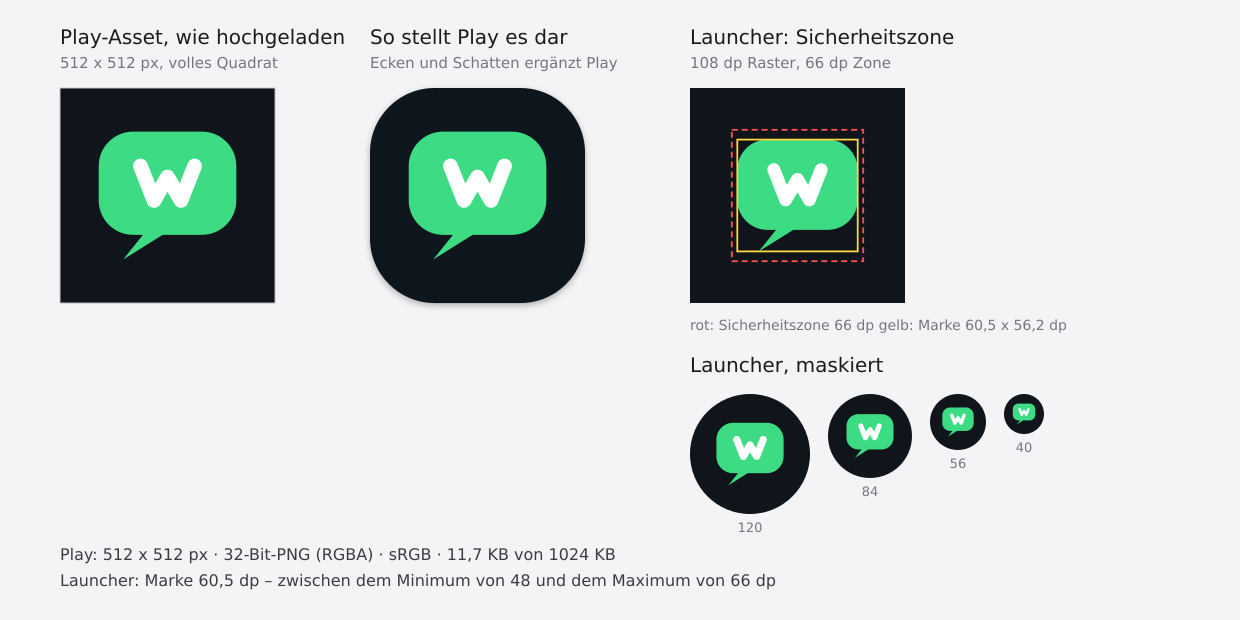
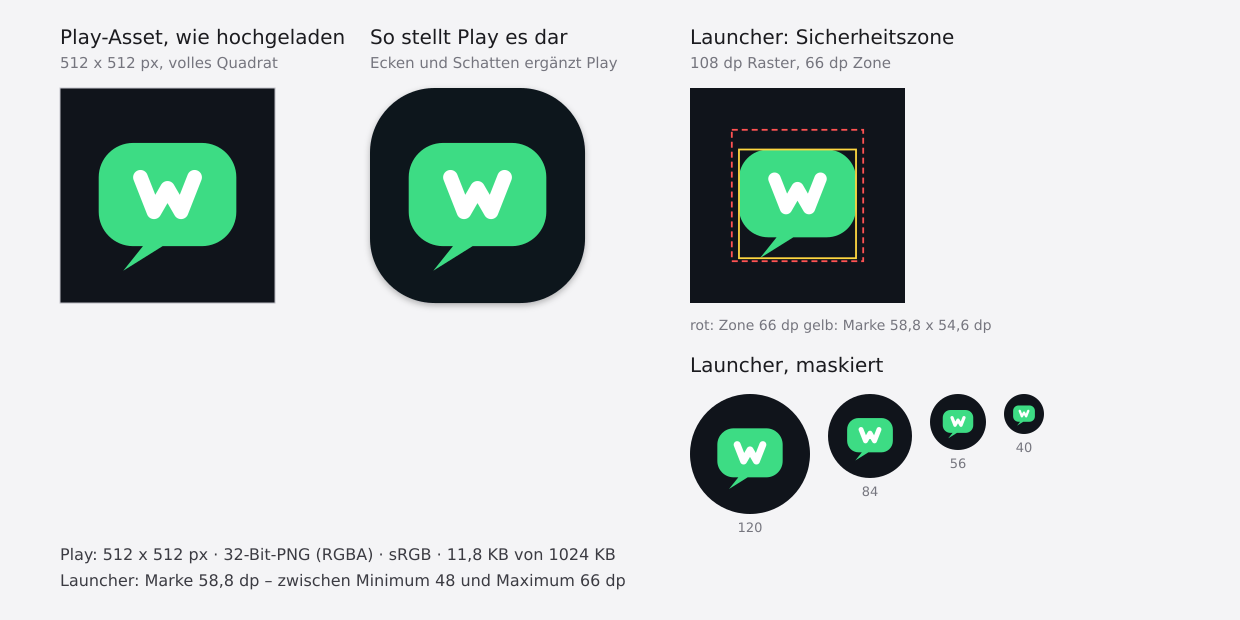
Befunde vom Gerätetest beheben, Symbol optisch zentrieren
Erster Lauf auf echter Hardware (Pixel 10, Android 17) gegen die lokale
WordPress-Umgebung. Dabei kam vieres heraus:

Datenschutzfehler: Die Detailansicht lud den Avatar eines Kommentators, ohne
die Einstellung "Avatare anzeigen" zu beachten - es entstand also eine Anfrage
an Gravatar, obwohl der Benutzer sie abgelehnt hatte. Die Listenansicht prüfte
korrekt, die Detailansicht nicht. Genau das schliesst docs/privacy.md aus.

Eine soeben veröffentlichte Antwort zeigte "Vor 0 Min.". Unterhalb einer
Minute steht jetzt "Gerade eben"; RelativeTime nimmt dafür Resources entgegen.

seed.sh hängte die Testkommentare an WordPress' Standardbeitrag "Hello world!",
weil die Beitragsliste ihn an erster Stelle mit ausgibt. Jetzt werden die IDs
gezielt über die Titel der angelegten Beiträge gesucht.

Die blaue Symbolvariante war geometrisch identisch zur grünen, erreichte auf
dem dunklen Grund aber nur 3,3:1 Kontrast - der Schweif der Sprechblase
verschwand bei kleinen Grössen fast. Sie ist jetzt umgekehrt eingefärbt,
weisse Blase auf WordPress-Blau, und kommt auf 5,6:1 in beide Richtungen. Die
Markenfarbe bleibt unverändert. Vier Varianten wurden gerendert und verglichen.

Ausserdem sass die Marke zu hoch. Der Begrenzungsrahmen lag zwar exakt mittig,
der Flächenschwerpunkt aber bei y=49,1 statt 54: Der Blasenkörper trägt nahezu
die gesamte Fläche, der Schweif wiegt kaum etwas. Alle Symbolebenen und beide
Play-Assets sind um vier Einheiten nach unten versetzt, Schwerpunkt jetzt 53,4.
[…]

diff --git a/android/app/src/main/java/de/christophlangner/commentator/ui/detail/CommentDetailScreen.kt b/android/app/src/main/java/de/christophlangner/commentator/ui/detail/CommentDetailScreen.kt
@@ -229,7 +229,11 @@ internal fun CommentDetailBody(
                         .verticalScroll(rememberScrollState())
                         .padding(horizontal = 16.dp),
                 ) {
-                    CommentHeader(comment = comment, showEmail = state.showAuthorEmail)
+                    CommentHeader(
+                        comment = comment,
+                        showEmail = state.showAuthorEmail,
+                        showAvatar = state.showAvatars,
+                    )
 
                     Text(
                         text = AnnotatedString.fromHtml(comment.contentHtml),
@@ -270,12 +274,15 @@ internal fun CommentDetailBody(
 }
 
 @Composable
-private fun CommentHeader(comment: Comment, showEmail: Boolean) {
+private fun CommentHeader(comment: Comment, showEmail: Boolean, showAvatar: Boolean) {
     Row(
         verticalAlignment = Alignment.CenterVertically,
         modifier = Modifier.padding(top = 16.dp),
     ) {
-        comment.avatarUrl?.let { url ->
+        // Ohne diese Bedingung entstünde eine Anfrage an Gravatar, obwohl die
+        // Einstellung dagegen steht - die Liste beachtet sie, die Detailansicht
+        // tat es bisher nicht.
+        comment.avatarUrl?.takeIf { showAvatar }?.let { url ->
             AsyncImage(
                 model = url,
                 contentDescription = null,
@@ -413,7 +420,7 @@ private fun ReplyItem(reply: Comment, modifier: Modifier = Modifier) {
                 modifier = Modifier.padding(top = 4.dp),
             )
             Text(
-                text = RelativeTime.relative(reply.date).toString(),
+                text = RelativeTime.relative(reply.date, LocalResources.current).toString(),
                 style = MaterialTheme.typography.bodySmall,
                 color = MaterialTheme.colorScheme.onSurfaceVariant,
             )

diff --git a/android/app/src/main/java/de/christophlangner/commentator/ui/detail/CommentDetailViewModel.kt b/android/app/src/main/java/de/christophlangner/commentator/ui/detail/CommentDetailViewModel.kt
@@ -37,6 +37,7 @@ data class CommentDetailUiState(
     val isSendingReply: Boolean = false,
     val isSavingEdit: Boolean = false,
     val showAuthorEmail: Boolean = false,
+    val showAvatars: Boolean = false,
     val isOffline: Boolean = false,
     val sessionInvalid: Boolean = false,
     val canModerate: Boolean = false,
@@ -90,14 +91,14 @@ class CommentDetailViewModel @Inject constructor(
         commentRepository.observeComment(instanceId, commentId),
         commentRepository.observeReplies(instanceId, commentId),
         busy,
-        settingsRepository.settings.map { it.showAuthorEmail },
+        settingsRepository.settings,
         combine(
             connectivity.isOnline,
             authRepository.observeSessionInvalid(),
             authRepository.observeActiveInstance().map { it?.canModerate == true },
             ::Triple,
         ),
-    ) { comment, replies, busy, showEmail, environment ->
+    ) { comment, replies, busy, settings, environment ->
         val (isOnline, sessionInvalid, canModerate) = environment
         CommentDetailUiState(
             comment = comment,
@@ -105,7 +106,8 @@ class CommentDetailViewModel @Inject constructor(
             isLoading = busy.isLoading && comment == null,
             isSendingReply = busy.isSendingReply,
             isSavingEdit = busy.isSavingEdit,
-            showAuthorEmail = showEmail,
+            showAuthorEmail = settings.showAuthorEmail,
+            showAvatars = settings.showAvatars,
             isOffline = !isOnline,
             sessionInvalid = sessionInvalid,
             canModerate = canModerate,

diff --git a/android/app/src/main/java/de/christophlangner/commentator/core/time/RelativeTime.kt b/android/app/src/main/java/de/christophlangner/commentator/core/time/RelativeTime.kt
@@ -1,6 +1,8 @@
 package de.christophlangner.commentator.core.time
 
+import android.content.res.Resources
 import android.text.format.DateUtils
+import de.christophlangner.commentator.R
 import java.time.Instant
 import java.time.ZoneId
 import java.time.format.DateTimeFormatter
@@ -15,14 +17,30 @@ object RelativeTime {
     private val absoluteFormatter: DateTimeFormatter =
         DateTimeFormatter.ofLocalizedDateTime(FormatStyle.MEDIUM, FormatStyle.SHORT)
 
-    /** Zum Beispiel „vor 5 Minuten“. */
-    fun relative(instant: Instant, now: Instant = Instant.now()): CharSequence =
-        DateUtils.getRelativeTimeSpanString(
+    /**
+     * Zum Beispiel „vor 5 Minuten“.
+     *
+     * Unterhalb einer Minute liefert die Plattform „vor 0 Min.“ - für eine
+     * gerade veröffentlichte Antwort eine unsinnige Angabe. Dieser Fall wird
+     * deshalb eigens behandelt.
+     */
+    fun relative(
+        instant: Instant,
+        resources: Resources,
+        now: Instant = Instant.now(),
+    ): CharSequence {
+        val age = now.toEpochMilli() - instant.toEpochMilli()
+        if (age in 0 until DateUtils.MINUTE_IN_MILLIS) {
+            return resources.getString(R.string.time_just_now)
+        }
+
+        return DateUtils.getRelativeTimeSpanString(
             instant.toEpochMilli(),
             now.toEpochMilli(),
             DateUtils.MINUTE_IN_MILLIS,
             DateUtils.FORMAT_ABBREV_RELATIVE,
         )
+    }
 
     /** Vollständiges Datum mit Uhrzeit in lokaler Zeitzone. */
     fun absolute(instant: Instant, zone: ZoneId = ZoneId.systemDefault()): String =

diff --git a/android/app/src/main/java/de/christophlangner/commentator/ui/inbox/CommentCard.kt b/android/app/src/main/java/de/christophlangner/commentator/ui/inbox/CommentCard.kt
@@ -26,6 +26,7 @@ import androidx.compose.runtime.Composable
 import androidx.compose.ui.Alignment
 import androidx.compose.ui.Modifier
 import androidx.compose.ui.draw.clip
+import androidx.compose.ui.platform.LocalResources
 import androidx.compose.ui.res.stringResource
 import androidx.compose.ui.semantics.contentDescription
 import androidx.compose.ui.semantics.semantics
@@ -89,7 +90,7 @@ fun CommentCard(
                         overflow = TextOverflow.Ellipsis,
                     )
                     Text(
-                        text = RelativeTime.relative(comment.date).toString(),
+                        text = RelativeTime.relative(comment.date, LocalResources.current).toString(),
                         style = MaterialTheme.typography.bodySmall,
                         color = MaterialTheme.colorScheme.onSurfaceVariant,
                         modifier = Modifier.semantics {

diff --git a/android/app/src/main/java/de/christophlangner/commentator/ui/common/OfflineBanner.kt b/android/app/src/main/java/de/christophlangner/commentator/ui/common/OfflineBanner.kt
@@ -15,6 +15,7 @@ import androidx.compose.material3.TextButton
 import androidx.compose.runtime.Composable
 import androidx.compose.ui.Alignment
 import androidx.compose.ui.Modifier
+import androidx.compose.ui.platform.LocalResources
 import androidx.compose.ui.res.stringResource
 import androidx.compose.ui.unit.dp
 import de.christophlangner.commentator.R
@@ -55,7 +56,7 @@ fun OfflineBanner(
                     } else {
                         stringResource(
                             R.string.offline_last_sync,
-                            RelativeTime.relative(lastSync).toString(),
+                            RelativeTime.relative(lastSync, LocalResources.current).toString(),
                         )
                     },
                     style = MaterialTheme.typography.bodySmall,

diff --git a/CHANGELOG.md b/CHANGELOG.md
@@ -56,6 +56,22 @@ vergeben. Alles Unveröffentlichte steht unter `[Unreleased]`.
 - Play-Store-Symbol als 512 × 512 px großes 32-Bit-PNG unter `store/play/`,
   geprüft gegen die Spezifikationen für das App-Symbol im Play Store.
 
+**Behoben nach dem ersten Lauf auf einem Gerät**
+
+- Die Detailansicht lud den Avatar eines Kommentators, ohne die Einstellung
+  „Avatare anzeigen" zu beachten. Damit entstand eine Anfrage an Gravatar,
+  obwohl sie abgelehnt war. Die Listenansicht war davon nicht betroffen.
+- Eine soeben veröffentlichte Antwort zeigte „Vor 0 Min.". Unterhalb einer
+  Minute steht jetzt „Gerade eben".
+- `seed.sh` hängte die Testkommentare an WordPress' Standardbeitrag
+  „Hello world!" statt an die selbst angelegten Beiträge.
+- Die blaue Symbolvariante erreichte auf dem dunklen Grund nur 3,3:1 Kontrast.
+  Sie ist jetzt umgekehrt eingefärbt - weisse Blase auf WordPress-Blau - und
+  kommt auf 5,6:1.
+- Die Marke sitzt in allen Symbolebenen optisch statt geometrisch zentriert.
+  Der Blasenkörper trägt fast die gesamte Fläche, weshalb die am Rahmen
+  ausgerichtete Zeichnung nach oben gerutscht wirkte.
+
 **WordPress-Plugin**
 
 - `commentator-bridge` mit den Leseendpunkten `commentator/v1/status` und

diff --git a/store/play/README.md b/store/play/README.md
@@ -8,7 +8,7 @@ gepackt und liegen deshalb außerhalb des Android-Moduls.
 | Datei | Variante |
 |---|---|
 | `icon-512.png` | Android-Grün, entspricht dem Standard-Startsymbol |
-| `icon-512-blau.png` | WordPress-Blau, falls die blaue Variante der Standard werden soll |
+| `icon-512-blau.png` | WordPress-Blau – weisse Blase auf blauem Grund, siehe unten |
 
 Erzeugt aus derselben Zeichnung wie das Launcher-Symbol
 (`android/app/src/main/res/drawable/ic_launcher_foreground.xml`).
@@ -32,6 +32,17 @@ Startsymbol. Geprüft wurde gegen
 
 Die Marke misst 328 × 304 px, also 64 % der Kantenlänge, und liegt damit
 deutlich innerhalb des Eckenradius von 154 px, den Play anlegt.
+
+Sie sitzt **optisch** zentriert, nicht geometrisch: Der Blasenkörper trägt
+nahezu die gesamte Fläche, der Schweif wiegt kaum etwas. Am Rahmen
+ausgerichtet wirkte die Marke deshalb nach oben gerutscht.
+
+## Warum die blaue Variante umgekehrt eingefärbt ist
+
+Blau `#3858E9` auf dem dunklen Grund erreicht nur einen Kontrast von 3,3:1;
+der Schweif der Sprechblase verschwindet dabei bei kleinen Größen fast. Mit
+weisser Blase auf blauem Grund sind es 5,6:1 in beide Richtungen, bei
+unveränderter Markenfarbe.
 
 ## Warum größer als im Startsymbol
 
